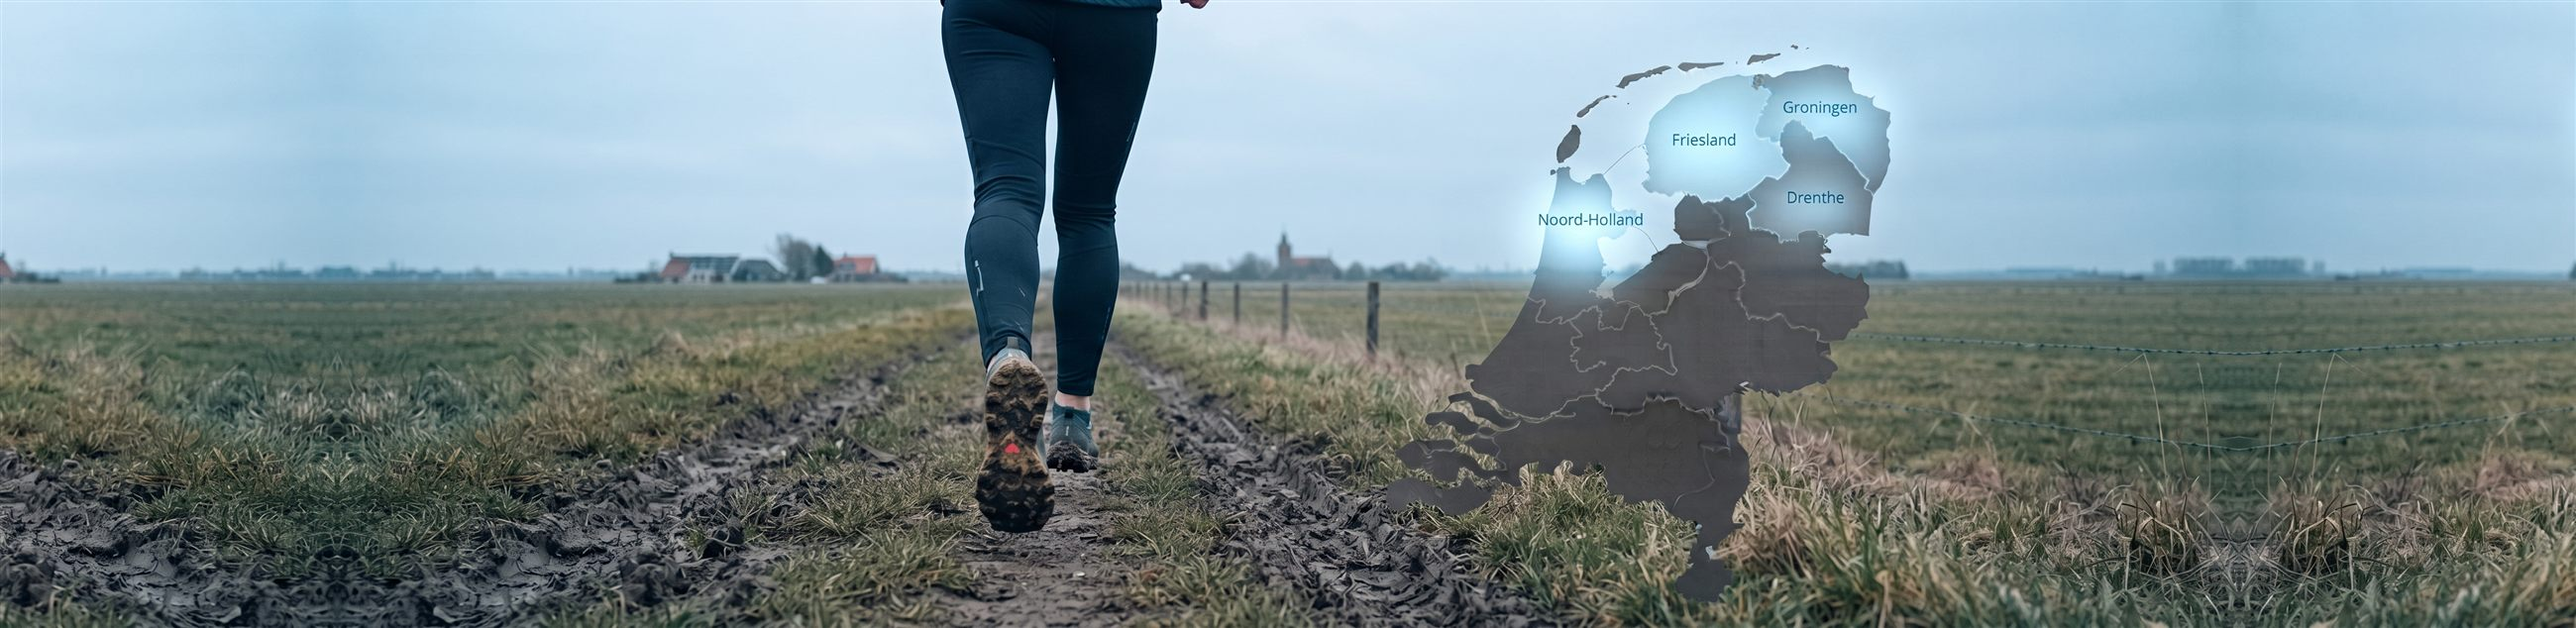
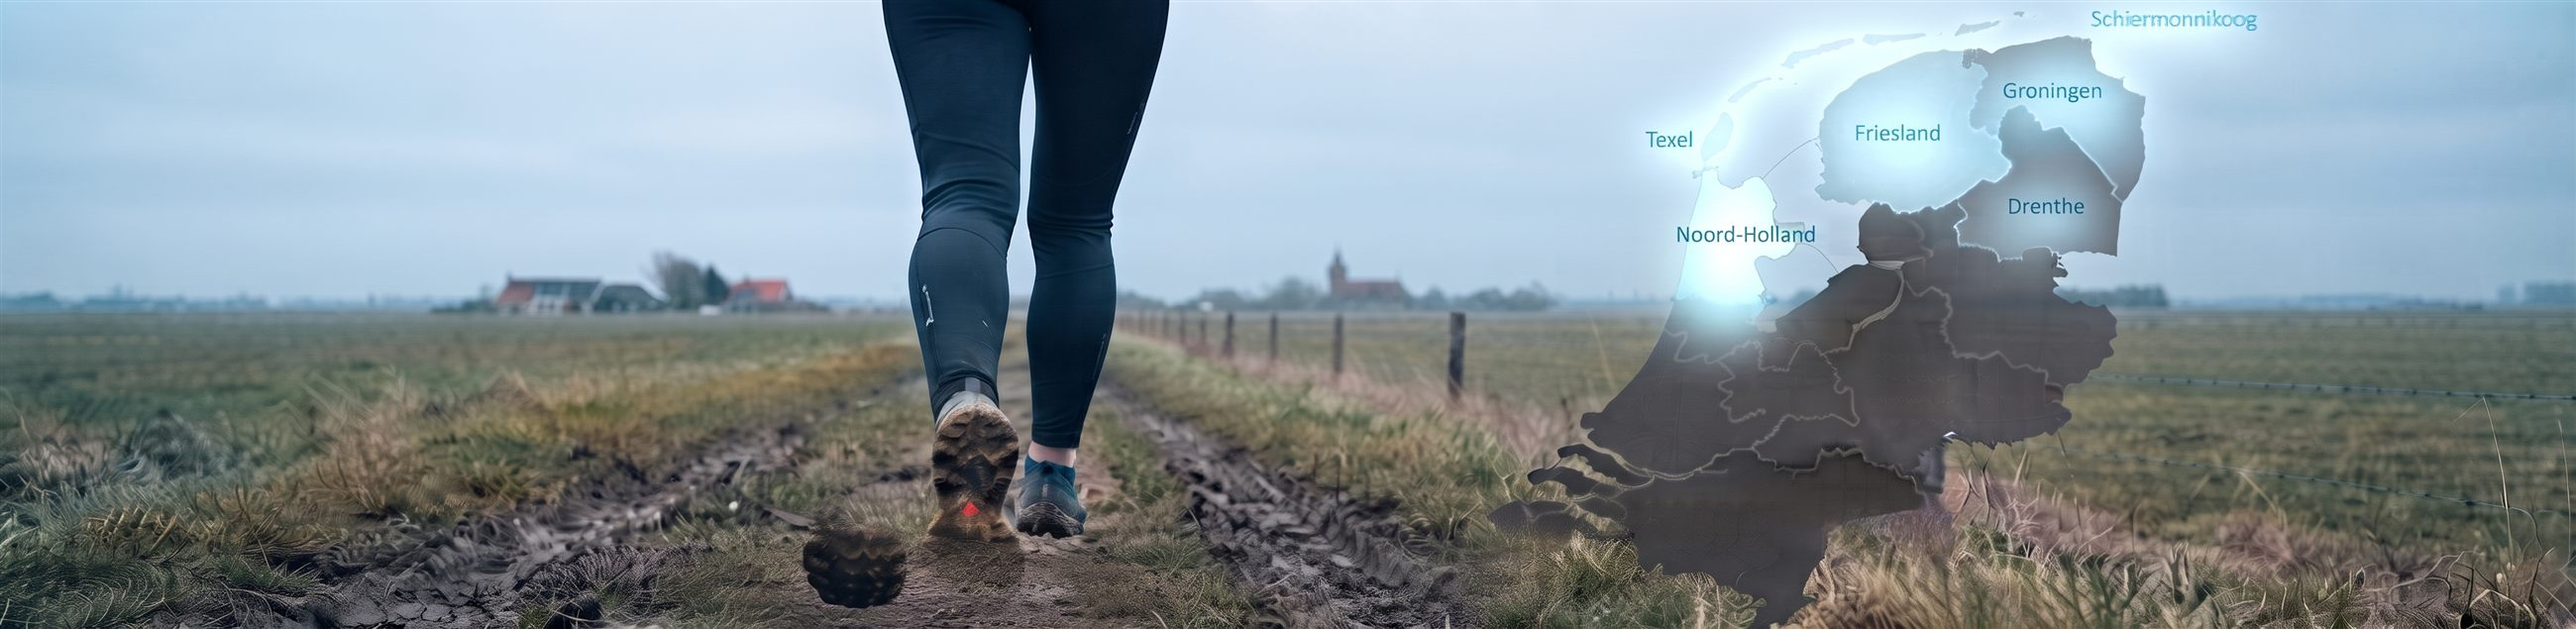
Regio Noord: BannerNoord2 (4,1:1), uitsnede vanaf de bovenkant

diff --git a/style.css b/style.css
@@ -739,8 +739,8 @@ a.event-card__price--ext:hover { color: var(--accent); text-decoration: underlin
 .page-header--regio { border-bottom: none; }
 /* Noord en West: gespiegeld verbrede banner (4,1:1), uitsnede naar boven geschoven
    zodat de bovenkant van de kaart in beeld blijft; onderkant mag wegvallen */
-.page-header--regio-noord,
 .page-header--regio-west { background-position: center 15%; }
+.page-header--regio-noord { background-position: center top; }
 /* Oost: hele afbeelding (met de kaart) in beeld, met stroken in de randkleur */
 .page-header--regio-oost { background-size: auto 100%; background-repeat: no-repeat; background-position: center; }
 .page-header--regio-oost  { background-color: #4D5561; }
